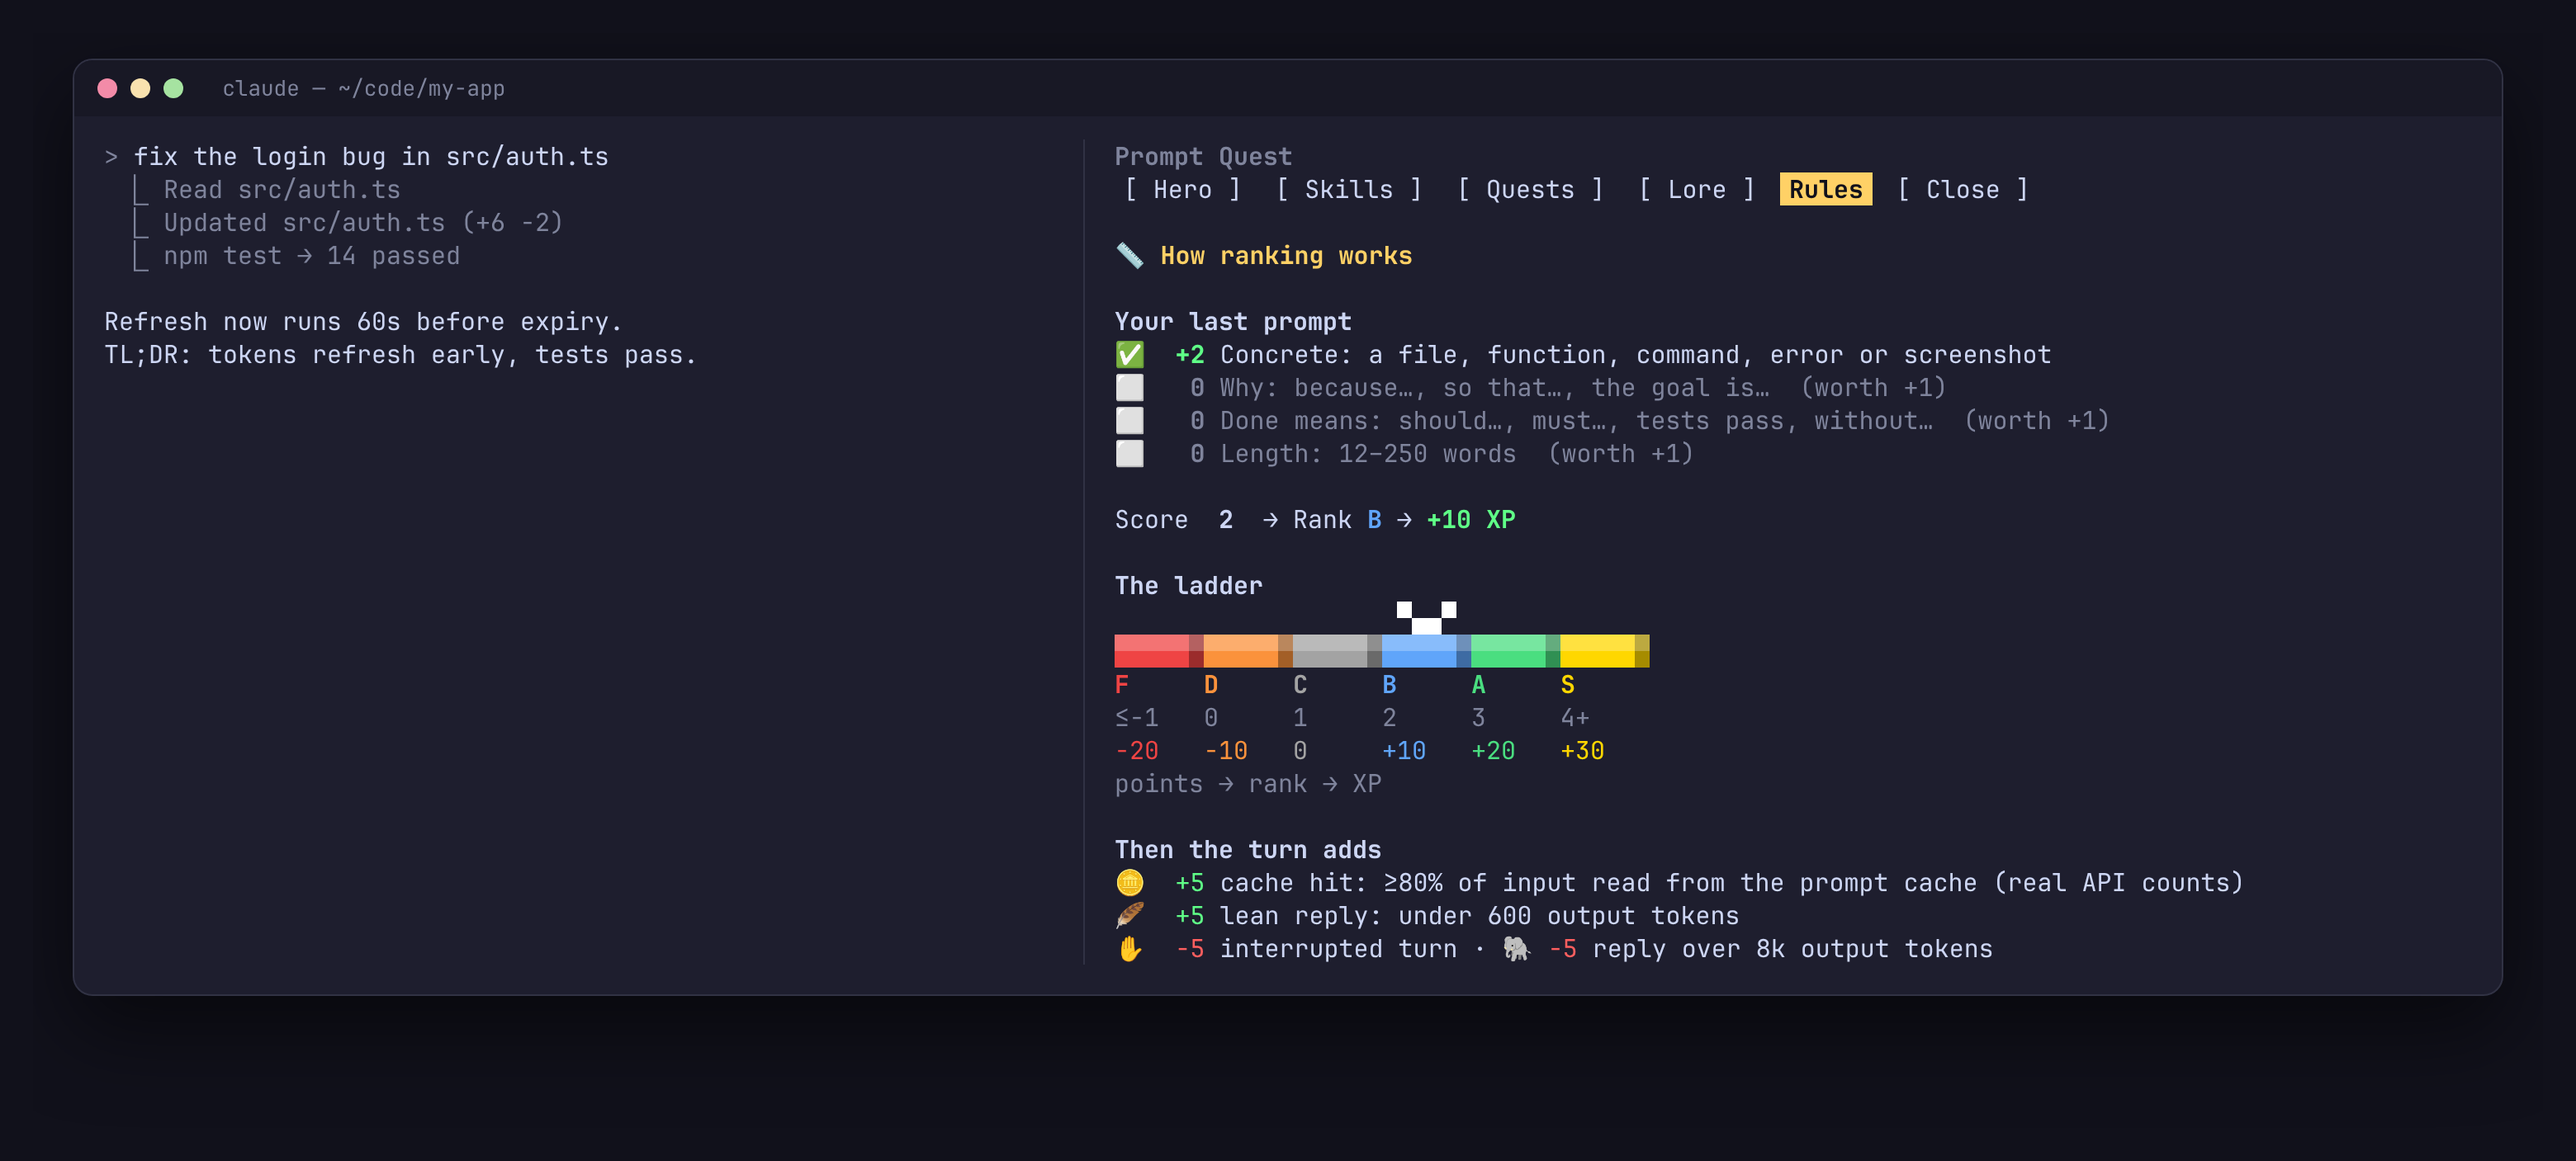
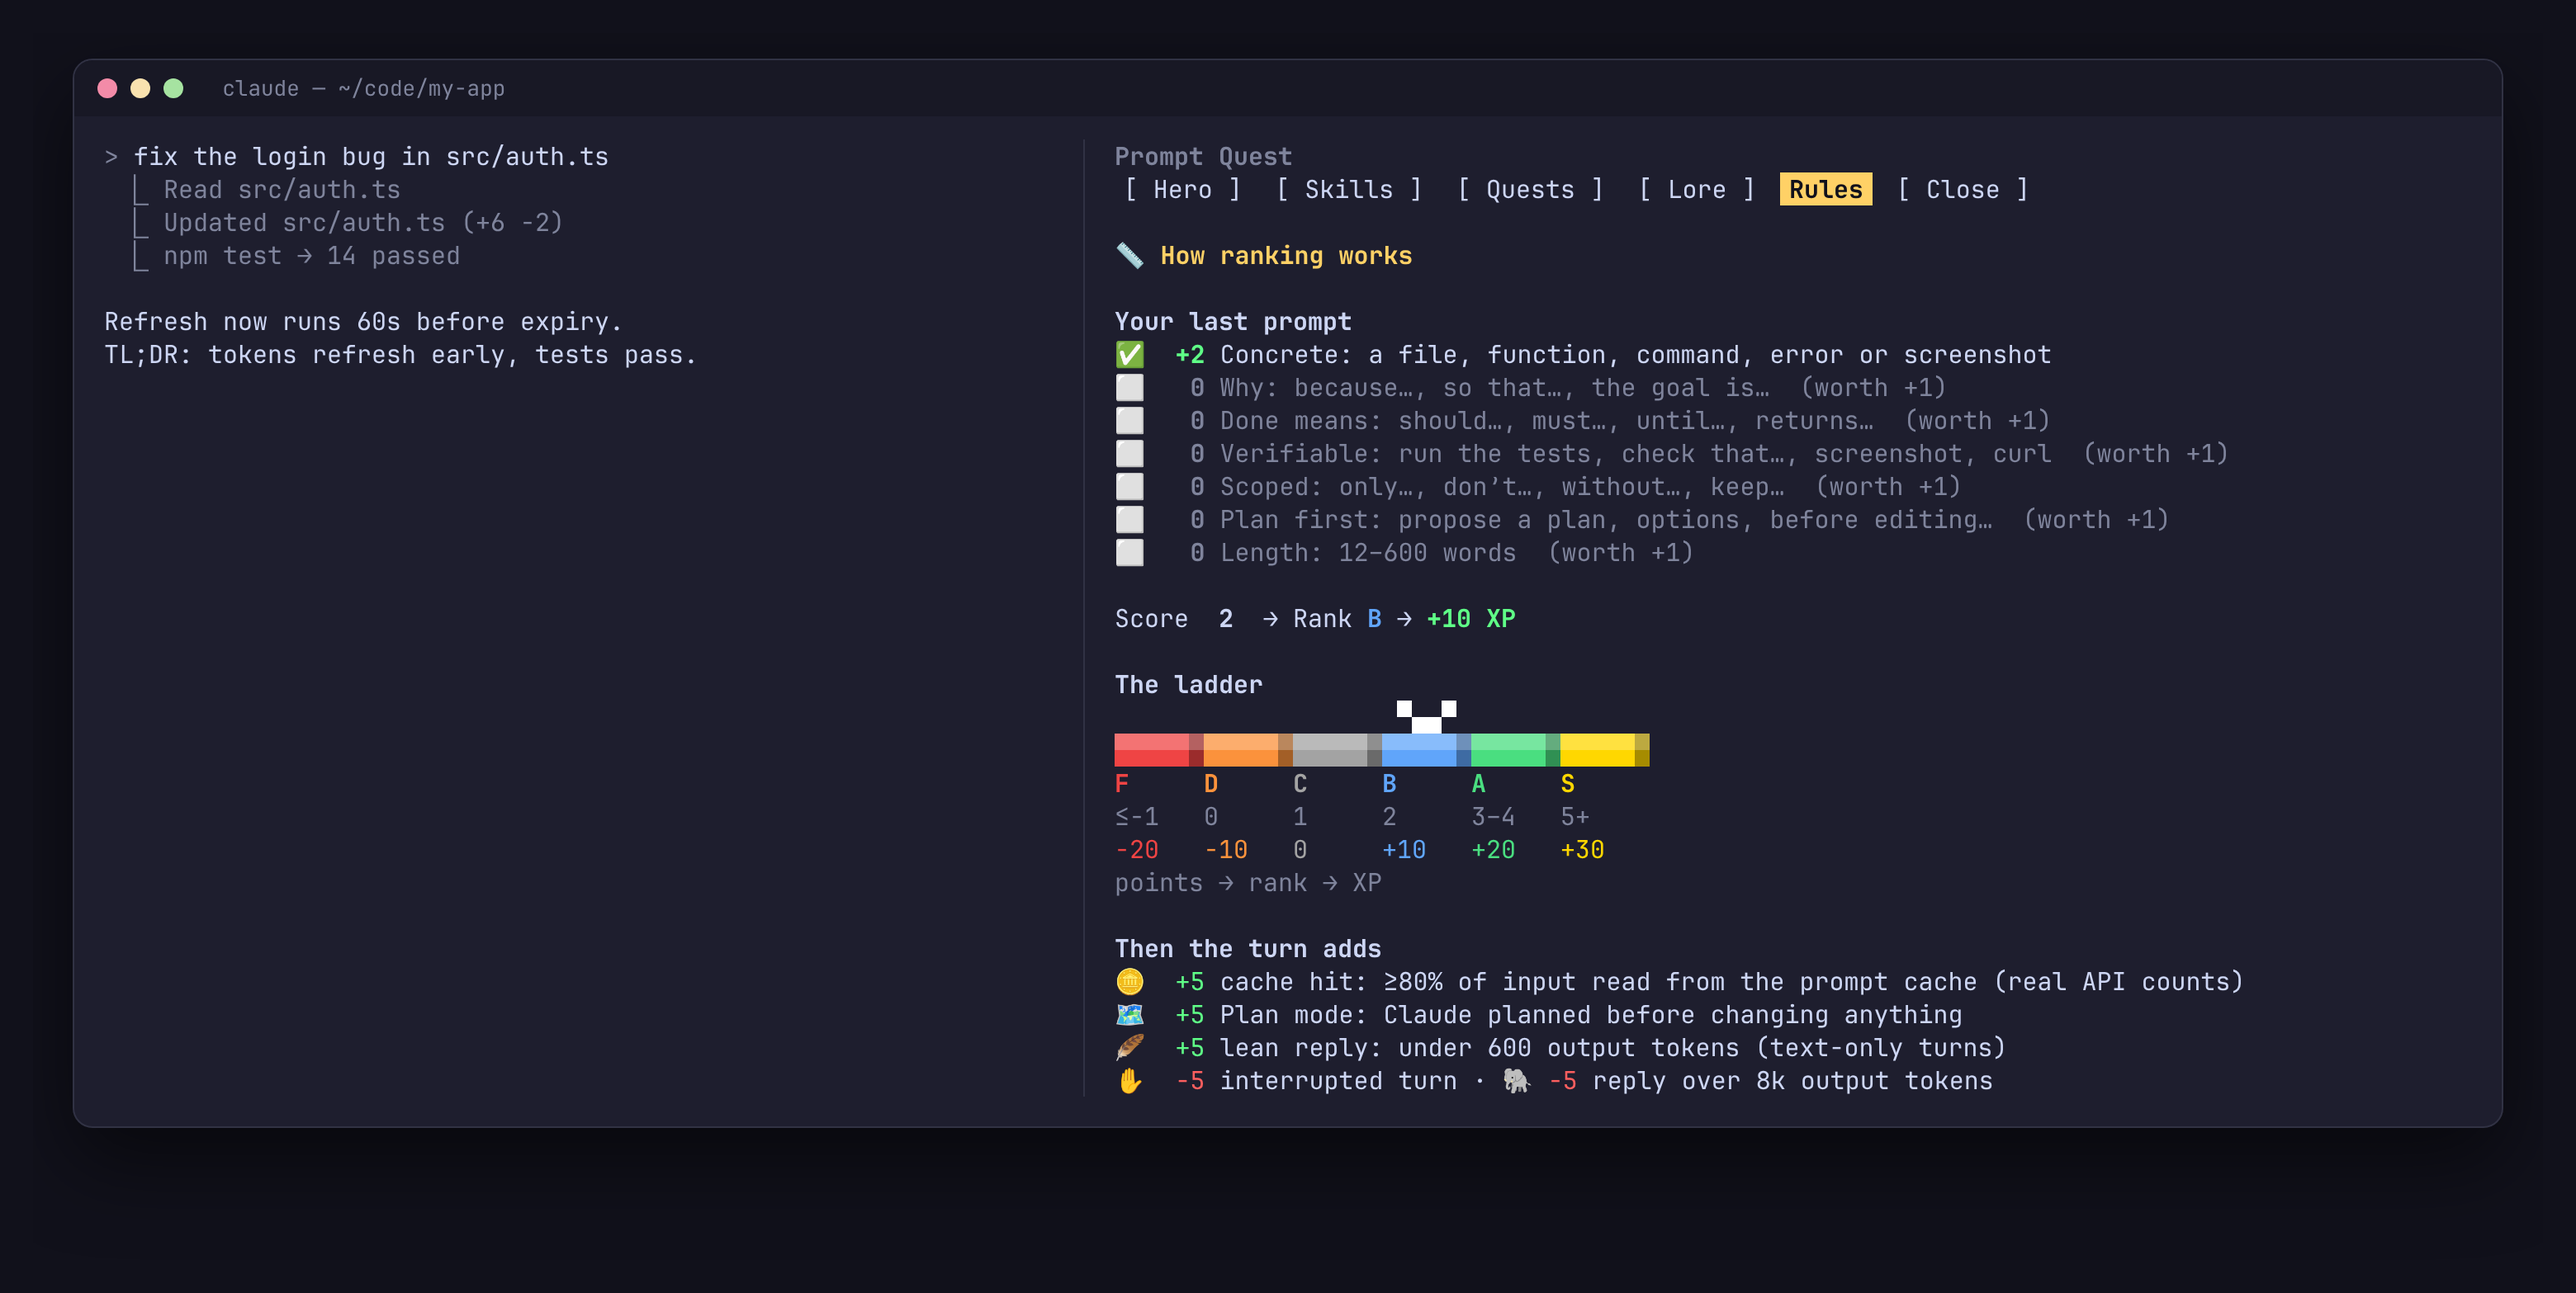
docs: document agentic scoring and how updates work
- HELP.md and README explain the new signals, follow-ups, the 5+ point
  S threshold and Plan mode, with worked examples checked against the grader
- README explains auto-update (off by default for community
  marketplaces) and how to turn it on or update by hand
- Rules screenshot shows the new ladder and signals

diff --git a/scripts/mockups/pane-rules.html b/scripts/mockups/pane-rules.html
@@ -1,4 +1,4 @@
-<!doctype html><html data-size="1520,900"><head><meta charset="utf-8"><link rel="stylesheet" href="style.css"></head><body>
+<!doctype html><html data-size="1520,1000"><head><meta charset="utf-8"><link rel="stylesheet" href="style.css"></head><body>
 <div class="win"><div class="bar"><span class="dot" style="background:#f38ba8"></span><span class="dot" style="background:#f9e2af"></span><span class="dot" style="background:#a6e3a1"></span>&nbsp; claude — ~/code/my-app</div><div class="body split"><div class="left">
 <div class="row user">fix the login bug in src/auth.ts</div>
 <div class="row dim">  ⎿ Read src/auth.ts</div><div class="row dim">  ⎿ Updated src/auth.ts (+6 −2)</div><div class="row dim">  ⎿ npm test → 14 passed</div>
@@ -9,19 +9,23 @@
 <div class="row b">Your last prompt</div>
 <div class="row">✅ <span class="b" style="color:#5fff87">&nbsp;+2</span>&nbsp;Concrete: a file, function, command, error or screenshot</div>
 <div class="row">⬜ <span class="b dim">&nbsp;&nbsp;0</span>&nbsp;<span class="dim">Why: because…, so that…, the goal is…  (worth +1)</span></div>
-<div class="row">⬜ <span class="b dim">&nbsp;&nbsp;0</span>&nbsp;<span class="dim">Done means: should…, must…, tests pass, without…  (worth +1)</span></div>
-<div class="row">⬜ <span class="b dim">&nbsp;&nbsp;0</span>&nbsp;<span class="dim">Length: 12–250 words  (worth +1)</span></div>
+<div class="row">⬜ <span class="b dim">&nbsp;&nbsp;0</span>&nbsp;<span class="dim">Done means: should…, must…, until…, returns…  (worth +1)</span></div>
+<div class="row">⬜ <span class="b dim">&nbsp;&nbsp;0</span>&nbsp;<span class="dim">Verifiable: run the tests, check that…, screenshot, curl  (worth +1)</span></div>
+<div class="row">⬜ <span class="b dim">&nbsp;&nbsp;0</span>&nbsp;<span class="dim">Scoped: only…, don’t…, without…, keep…  (worth +1)</span></div>
+<div class="row">⬜ <span class="b dim">&nbsp;&nbsp;0</span>&nbsp;<span class="dim">Plan first: propose a plan, options, before editing…  (worth +1)</span></div>
+<div class="row">⬜ <span class="b dim">&nbsp;&nbsp;0</span>&nbsp;<span class="dim">Length: 12–600 words  (worth +1)</span></div>
 <div class="row"> </div>
 <div class="row">Score <b>&nbsp;2&nbsp;</b> → Rank&nbsp;<b style="color:#60a5fa">B</b>&nbsp;→&nbsp;<b style="color:#5fff87">+10 XP</b></div>
 <div class="row"> </div>
 <div class="row b">The ladder</div>
 <img class="px" src="still-meter.png" style="width:36ch;height:calc(2*var(--line))">
 <div class="row"><b style="color:#ef4444">F&nbsp;&nbsp;&nbsp;&nbsp;&nbsp;</b><b style="color:#fb923c">D&nbsp;&nbsp;&nbsp;&nbsp;&nbsp;</b><b style="color:#a3a3a3">C&nbsp;&nbsp;&nbsp;&nbsp;&nbsp;</b><b style="color:#60a5fa">B&nbsp;&nbsp;&nbsp;&nbsp;&nbsp;</b><b style="color:#4ade80">A&nbsp;&nbsp;&nbsp;&nbsp;&nbsp;</b><b style="color:#ffd700">S</b></div>
-<div class="row dim">≤−1&nbsp;&nbsp;&nbsp;0&nbsp;&nbsp;&nbsp;&nbsp;&nbsp;1&nbsp;&nbsp;&nbsp;&nbsp;&nbsp;2&nbsp;&nbsp;&nbsp;&nbsp;&nbsp;3&nbsp;&nbsp;&nbsp;&nbsp;&nbsp;4+</div>
+<div class="row dim">≤−1&nbsp;&nbsp;&nbsp;0&nbsp;&nbsp;&nbsp;&nbsp;&nbsp;1&nbsp;&nbsp;&nbsp;&nbsp;&nbsp;2&nbsp;&nbsp;&nbsp;&nbsp;&nbsp;3–4&nbsp;&nbsp;&nbsp;5+</div>
 <div class="row"><span style="color:#ef4444">−20&nbsp;&nbsp;&nbsp;</span><span style="color:#fb923c">−10&nbsp;&nbsp;&nbsp;</span><span style="color:#a3a3a3">0&nbsp;&nbsp;&nbsp;&nbsp;&nbsp;</span><span style="color:#60a5fa">+10&nbsp;&nbsp;&nbsp;</span><span style="color:#4ade80">+20&nbsp;&nbsp;&nbsp;</span><span style="color:#ffd700">+30</span></div>
 <div class="row dim">points → rank → XP</div><div class="row"> </div>
 <div class="row b">Then the turn adds</div>
 <div class="row">🪙 <span style="color:#5fff87">&nbsp;+5</span>&nbsp;cache hit: ≥80% of input read from the prompt cache (real API counts)</div>
-<div class="row">🪶 <span style="color:#5fff87">&nbsp;+5</span>&nbsp;lean reply: under 600 output tokens</div>
+<div class="row">🗺 <span style="color:#5fff87">&nbsp;+5</span>&nbsp;Plan mode: Claude planned before changing anything</div>
+<div class="row">🪶 <span style="color:#5fff87">&nbsp;+5</span>&nbsp;lean reply: under 600 output tokens (text-only turns)</div>
 <div class="row">✋ <span style="color:#ff5f5f">&nbsp;−5</span>&nbsp;interrupted turn · 🐘 <span style="color:#ff5f5f">−5</span> reply over 8k output tokens</div>
 </div></div></div></body></html>

diff --git a/HELP.md b/HELP.md
@@ -59,27 +59,34 @@ You ask because you don't know, so a question **never** loses XP for a missing f
 | Clear question | 💎 B | +10 |
 | One or two words ("why?") | ⚪ C | 0 |
 
-### 3. Tasks: scored on four signals
+### 3. Tasks: scored on agentic habits
 
-Everything else is a task. It earns points for each signal it contains:
+Everything else is a task. The signals reward what works with coding agents: point at the code, say why, and give Claude a way to know it's done and to check its work.
 
 | Signal | Points | Counts when the prompt has… |
 | --- | --- | --- |
-| **Concrete** | +2 | a path (`src/auth.ts`), a code span in backticks, a `function()`, a line number (`:42`), a URL, or a screenshot |
-| **Why** | +1 | *because, so that, the goal is, I need, I want, ideally…* |
-| **Done means** | +1 | *should, must, expect, make sure, verify, test, without, don't, only, at most…* |
-| **Length** | +1 | 12–250 words |
-| Vague and tiny | −2 | under 8 words *and* "fix it", "doesn't work", "make it better", "help"… |
-| Too terse | −1 | under 4 words (when not vague) |
-| Wall of text | −1 | over 400 words with no code block |
+| **Concrete** | +2 | a path (`src/auth.ts`), a code span in backticks, a `function()`, a line number (`:42`), an `@file` mention, a URL, or a screenshot |
+| **Follow-up** | +1 | no file named, but you're mid-session (a turn in the last 30 min) and the prompt is 40 words or fewer. It builds on the task in progress, so you don't need to repeat yourself. |
+| **Why** | +1 | *because, so that, the goal is, I need, users can't…* |
+| **Done means** | +1 | *should, must, until, returns, instead of, done when…* |
+| **Verifiable** | +1 | *run the tests, tests pass, verify, check that, lint, typecheck, screenshot, curl…* |
+| **Scoped** | +1 | *only, don't, without, keep, avoid, no new, at most…* |
+| **Plan first** | +1 | *propose a plan, options, trade-offs, before editing, ask me, think it through…* |
+| **Example** | +1 | *e.g., for example, such as*, or a code block |
+| **Length** | +1 | 12–600 words |
+| Vague and tiny | −2 | under 8 words *and* "fix it", "doesn't work", "help"… (not counted mid-session) |
+| Too terse | −1 | under 4 words (not counted mid-session) |
+| Wall of text | −1 | over 800 words with no headings, bullets or code block |
 
 Then the points map to a rank:
 
 ```text
- points   ≤ −1    0     1     2     3    4+
+ points   ≤ −1    0     1     2    3–4    5+
  rank      F     D     C     B     A     S
  XP       −20   −10    0    +10   +20   +30
 ```
+
+**S needs 5+ points.** A clear, anchored prompt with a reason reaches A; the top rank also takes a habit that makes agentic work go well: verification, scope, a plan or an example.
 
 **Anti-stuffing rule:** a task under 8 words is capped at **B**, even if it hits every signal.
 
@@ -87,12 +94,14 @@ Then the points map to a rank:
 
 | Prompt | Signals | Points | Rank |
 | --- | --- | --- | --- |
-| `fix it` | vague and tiny | −2 | 💀 F (−20) |
+| `fix it` (new session) | vague and tiny | −2 | 💀 F (−20) |
+| `fix it` (right after a turn) | follow-up | 1 | ⚪ C (0) |
 | `login is broken` | too terse (3 words) | −1 | 💀 F (−20) |
-| `the login page is broken` | none | 0 | 🔻 D (−10) |
 | `fix the login bug in src/auth.ts` | concrete | 2 | 💎 B (+10) |
-| `fix the login bug in src/auth.ts because users get logged out after 5 minutes` | concrete, why, length | 4 | 👑 S (+30) |
-| `Fix the token refresh in src/auth.ts because users get logged out; auth.test.ts should pass.` | concrete, why, done, length | 5 | 👑 S (+30) |
+| `now do the same for the signup page, tests should pass` (mid-session) | follow-up, done, verifiable | 3 | ⭐ A (+20) |
+| `fix the login bug in src/auth.ts because users get logged out after 5 minutes` | concrete, why, length | 4 | ⭐ A (+20) |
+| `Fix the token refresh in src/auth.ts because users get logged out. Only touch that file, then run npm test to verify.` | concrete, why, scoped, verifiable, length | 6 | 👑 S (+30) |
+| `Propose a plan before editing: we need rate limiting on /api/login because of brute force. Keep the public API the same and run the tests.` | concrete, why, plan, scoped, verifiable, length | 7 | 👑 S (+30) |
 
 ## Turn bonuses and penalties
 
@@ -101,9 +110,10 @@ When the turn ends, Prompt Quest reads the turn's **real token counts as reporte
 | Event | XP | Measured how |
 | --- | --- | --- |
 | 🪙 Cache hit | +5 | cache-read tokens ÷ all input tokens ≥ 80%, in a turn with over 2,000 input tokens |
-| 🪶 Lean reply | +5 | under 600 output tokens |
+| 🪶 Lean reply | +5 | under 600 output tokens in a turn with no file edits (code changes are the work, so they're never counted against you) |
 | ✋ Interrupted turn | −5 | you stopped the turn |
-| 🐘 Heavy output | −5 | over 8,000 output tokens |
+| 🗺 Plan mode | +5 | Claude entered or left Plan mode this turn, so it planned before changing anything |
+| 🐘 Heavy output | −5 | over 8,000 output tokens in a turn with no file edits |
 | 🧹 Clean Slate | +10 | you ran `/clear` while carrying 50k+ tokens of history |
 | 🔀 Cache break | tip only | the model changed since the last turn and the cache went cold (no XP lost, since `opusplan` switches on purpose) |
 

diff --git a/README.md b/README.md
@@ -7,7 +7,7 @@
 **An RPG layer for [Claude Code](https://claude.com/claude-code).**
 Level up by writing sharper prompts, spending tokens wisely and learning how modern AI works.
 
-[![Version](https://img.shields.io/badge/version-0.3.0-8b5cf6)](.claude-plugin/marketplace.json)
+[![Version](https://img.shields.io/badge/version-0.4.0-8b5cf6)](.claude-plugin/marketplace.json)
 [![Claude Code](https://img.shields.io/badge/Claude%20Code-%E2%89%A5%202.1.289-d97757)](https://claude.com/claude-code)
 [![License: MIT](https://img.shields.io/github/license/tomikng/prompt-quest?color=22c55e)](LICENSE)
 [![Grading cost](https://img.shields.io/badge/prompt%20grading-0%20tokens-38bdf8)](#privacy)
@@ -102,7 +102,9 @@ Then start `claude` and type `/quest`.
 > Pixel art draws in the terminal. Other surfaces get a text version.
 > The side pane docks beside the transcript when the terminal is at least 144 columns wide.
 
-**Update** later from a shell:
+**Updates.** Auto-update is **off by default** for community marketplaces like this one. To turn it on: `/plugin` → **Marketplaces** → `prompt-quest` → **Enable auto-update**. Claude Code then checks for updates each time a session starts.
+
+To update by hand, use `/plugin` → **Installed** → **Update now**, or from a shell:
 
 ```bash
 claude plugin marketplace update prompt-quest
@@ -118,14 +120,22 @@ Each prompt you type is graded on your machine with simple heuristics. No model 
 | What your prompt has | Points |
 | --- | --- |
 | Something concrete: a file, function, command, error text, or a screenshot | +2 |
-| A reason: *because…*, *so that…*, *the goal is…* | +1 |
-| A finish line: *should*, *must*, *tests pass*, *without…* | +1 |
-| A sensible length (12–250 words) | +1 |
-| Vague and tiny ("fix it", "doesn't work") | −2 |
+| *or*, mid-session, a short follow-up that builds on the task in progress | +1 |
+| A reason: *because…*, *so that…* | +1 |
+| A finish line: *should*, *must*, *until…* | +1 |
+| A way to verify: *run the tests*, *check that…*, *screenshot* | +1 |
+| A scope: *only…*, *don't…*, *keep…* | +1 |
+| A plan first: *propose a plan*, *before editing…* | +1 |
+| An example: *e.g.*, a code block | +1 |
+| A sensible length (12–600 words) | +1 |
+| Vague and tiny ("fix it" with no context) | −2 |
 
 | Rank | 👑 S | ⭐ A | 💎 B | ⚪ C | 🔻 D | 💀 F |
 | --- | --- | --- | --- | --- | --- | --- |
+| Points | 5+ | 3–4 | 2 | 1 | 0 | ≤ −1 |
 | XP | +30 | +20 | +10 | 0 | −10 | −20 |
+
+S takes the habits that make agentic work go well: verification, scope, a plan or an example. Follow-ups like "now do the same for signup" aren't punished for not repeating context.
 
 **Questions are graded differently.** You ask because you don't know, so a question is never penalized for not naming a file, a reason or a finish line. A clear question is 💎 B (+10), and one grounded in a file, an error or a screenshot is ⭐ A (+20). Replies to Claude like "yes", "yes push them" or "no, keep it" are neutral.
 
@@ -140,9 +150,10 @@ The full rules, with worked examples, are in the [📖 Player's Guide](HELP.md#h
 | Event | XP |
 | --- | --- |
 | Cache hit ≥ 80% | +5 |
-| Reply under 600 output tokens | +5 |
+| Plan mode used in the turn | +5 |
+| Text-only reply under 600 output tokens | +5 |
 | Interrupted turn | −5 |
-| Reply over 8k output tokens | −5 |
+| Text-only reply over 8k output tokens | −5 |
 | `/clear` after 50k+ tokens of history | +10 |
 | Lore card read · quiz answered right · daily quest done | +15 · +25 · +50 |
 
